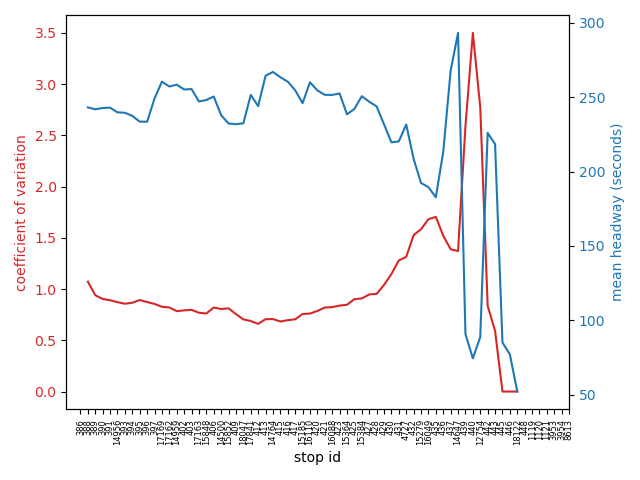
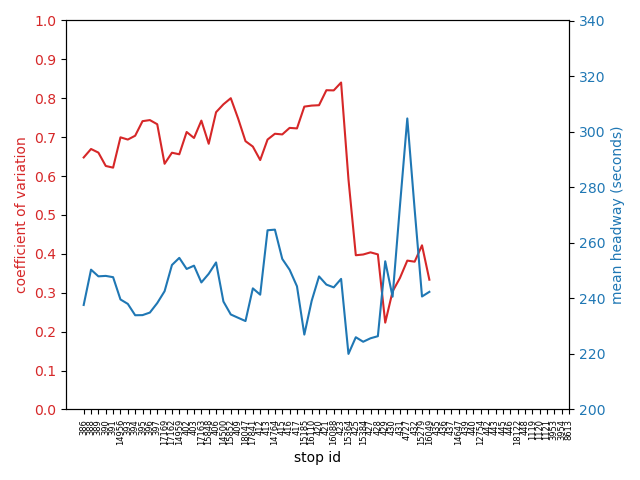
correct input headway

diff --git a/src/04_SIMULATION/post_process.py b/src/04_SIMULATION/post_process.py
@@ -21,7 +21,8 @@ def write_trajectories(trip_data, pathname, header=None):
     return
 
 
-def plot_headway(pathname, hs, ordered_stops, controlled_stops=None):
+def plot_headway(pathname, hs, ordered_stops, controlled_stops=None, min_size_for_cv=2, hw_scale=(200, 340, 20),
+                 cv_scale=(0,1,0.1)):
     x = []
     y1 = []
     y2 = []
@@ -29,22 +30,25 @@ def plot_headway(pathname, hs, ordered_stops, controlled_stops=None):
         s = ordered_stops[i]
         if s in hs:
             h = hs[s]
-            mean = np.array(h).mean()
-            std = np.array(h).std()
-            x.append(i)
-            y1.append(std/mean) if mean else y1.append(0)
-            y2.append(mean)
-
+            if len(h) > min_size_for_cv:
+                mean = np.array(h).mean()
+                std = np.array(h).std()
+                cv = std/mean
+                x.append(i)
+                y1.append(cv) if mean else y1.append(0)
+                y2.append(mean)
     fig, ax1 = plt.subplots()
     color = 'tab:red'
     ax1.set_xlabel('stop id')
     ax1.set_ylabel('coefficient of variation', color=color)
     ax1.plot(x, y1, color=color)
+    ax1.set_yticks(np.arange(cv_scale[0], cv_scale[1]+cv_scale[2], cv_scale[2]))
     ax1.tick_params(axis='y', labelcolor=color)
     ax2 = ax1.twinx()
     color = 'tab:blue'
     ax2.set_ylabel('mean headway (seconds)', color=color)
     ax2.plot(x, y2, color=color)
+    ax2.set_yticks(np.arange(hw_scale[0], hw_scale[1]+hw_scale[2], hw_scale[2]))
     ax2.tick_params(axis='y', labelcolor=color)
 
     if controlled_stops:
@@ -553,7 +557,8 @@ def load(pathname):
     return var
 
 
-def get_historical_headway(pathname, dates, all_stops, trips, start_time, end_time, early_departure=1*60):
+def get_historical_headway(pathname, dates, all_stops, trips, start_time, end_time, early_departure=0.5*60,
+                           sch_dev_tolerance=6*60):
     whole_df = pd.read_csv(pathname)
     df_period = whole_df[whole_df['trip_id'].isin(trips)]
     headway = {}
@@ -567,14 +572,16 @@ def get_historical_headway(pathname, dates, all_stops, trips, start_time, end_ti
                 t2_df = df_stop[df_stop['trip_id'] == j]
                 t1_df = df_stop[df_stop['trip_id'] == i]
                 if (not t1_df.empty) & (not t2_df.empty):
-                    t1_avl = float(t1_df['avl_sec'])
-                    t2_avl = float(t2_df['avl_sec'])
+                    t1_avl = float(t1_df['avl_sec']) % 86400
+                    t2_avl = float(t2_df['avl_sec']) % 86400
                     t1_schd = float(t1_df['schd_sec'])
                     t2_schd = float(t2_df['schd_sec'])
                     condition1 = s == all_stops[0]
-                    condition2 = t1_schd - t1_avl < early_departure or t2_schd - t2_avl < early_departure
+                    condition2 = t1_schd - t1_avl > early_departure or t2_schd - t2_avl > early_departure
+                    sch_dev_condition = abs(t1_schd - t1_avl) > sch_dev_tolerance or abs(t2_schd-t2_avl) > sch_dev_tolerance
                     faulty = condition1 and condition2
-                    if not faulty:
+
+                    if not faulty and not sch_dev_condition:
                         hw = t2_avl - t1_avl
                         if s in headway:
                             headway[s].append(hw)

diff --git a/src/04_SIMULATION/input.py b/src/04_SIMULATION/input.py
@@ -102,21 +102,21 @@ def visualize_for_validation():
 
 
 # extract_params()
-# visualize_for_validation()
+visualize_for_validation()
 
-STOPS, LINK_TIMES_MEAN, LINK_TIMES_SD, NR_TIME_DPOINTS, ORDERED_TRIPS, ARRIVAL_RATES, ALIGHT_FRACTIONS, SCHEDULED_DEPARTURES, INIT_HEADWAY, ODT = get_params()
-planned_headway_lst = [(j - i) for i, j in zip(SCHEDULED_DEPARTURES[:-1], SCHEDULED_DEPARTURES[1:])]
-planned_headway_lbls = [str(i) + '-' + str(j) for i, j in zip(ORDERED_TRIPS[:-1], ORDERED_TRIPS[1:])]
-PLANNED_HEADWAY = {i: j for i, j in zip(planned_headway_lbls, planned_headway_lst)}
-
-# FOR UNIFORM CONDITIONS: TO USE - SET TIME-DEPENDENT TRAVEL TIME AND DEMAND TO FALSE
-CONSTANT_HEADWAY = 270
-UNIFORM_SCHEDULED_DEPARTURES = [SCHEDULED_DEPARTURES[0] + CONSTANT_HEADWAY * i for i in
-                                range(len(SCHEDULED_DEPARTURES))]
-UNIFORM_INTERVAL = 1
-ARRIVAL_RATE = {key: value[UNIFORM_INTERVAL] for (key, value) in ARRIVAL_RATES.items()}
-SINGLE_LINK_TIMES_MEAN = {key: value[UNIFORM_INTERVAL] for (key, value) in LINK_TIMES_MEAN.items()}
-ALIGHT_FRACTION = {key: value[UNIFORM_INTERVAL] for (key, value) in ALIGHT_FRACTIONS.items()}
+# STOPS, LINK_TIMES_MEAN, LINK_TIMES_SD, NR_TIME_DPOINTS, ORDERED_TRIPS, ARRIVAL_RATES, ALIGHT_FRACTIONS, SCHEDULED_DEPARTURES, INIT_HEADWAY, ODT = get_params()
+# planned_headway_lst = [(j - i) for i, j in zip(SCHEDULED_DEPARTURES[:-1], SCHEDULED_DEPARTURES[1:])]
+# planned_headway_lbls = [str(i) + '-' + str(j) for i, j in zip(ORDERED_TRIPS[:-1], ORDERED_TRIPS[1:])]
+# PLANNED_HEADWAY = {i: j for i, j in zip(planned_headway_lbls, planned_headway_lst)}
+#
+# # FOR UNIFORM CONDITIONS: TO USE - SET TIME-DEPENDENT TRAVEL TIME AND DEMAND TO FALSE
+# CONSTANT_HEADWAY = 270
+# UNIFORM_SCHEDULED_DEPARTURES = [SCHEDULED_DEPARTURES[0] + CONSTANT_HEADWAY * i for i in
+#                                 range(len(SCHEDULED_DEPARTURES))]
+# UNIFORM_INTERVAL = 1
+# ARRIVAL_RATE = {key: value[UNIFORM_INTERVAL] for (key, value) in ARRIVAL_RATES.items()}
+# SINGLE_LINK_TIMES_MEAN = {key: value[UNIFORM_INTERVAL] for (key, value) in LINK_TIMES_MEAN.items()}
+# ALIGHT_FRACTION = {key: value[UNIFORM_INTERVAL] for (key, value) in ALIGHT_FRACTIONS.items()}
 
 # print([str(timedelta(seconds=i)) for i in SCHEDULED_DEPARTURES])
 # print(planned_headway_lst)

diff --git a/src/04_SIMULATION/scratch.py b/src/04_SIMULATION/scratch.py
@@ -13,14 +13,6 @@ import post_process
 import datetime
 from scipy.stats import lognorm
 
-CV = 0.15
-LOGN_S = np.sqrt(np.log(np.power(CV, 2) + 1))
-s = LOGN_S
-mean_runtime1 = 81
-runtime = lognorm.rvs(s, scale=mean_runtime1, size=20)
-print(runtime)
-print(runtime.std())
-mean_runtime2 = 30
-runtime2 = lognorm.rvs(s, scale=mean_runtime2, size=20)
-print(runtime2)
-print(runtime2.std())
+t = [1, 2, 3, 4, 5]
+c = [(i,j) for i,j in zip(t,t[1:])]
+print(c)
